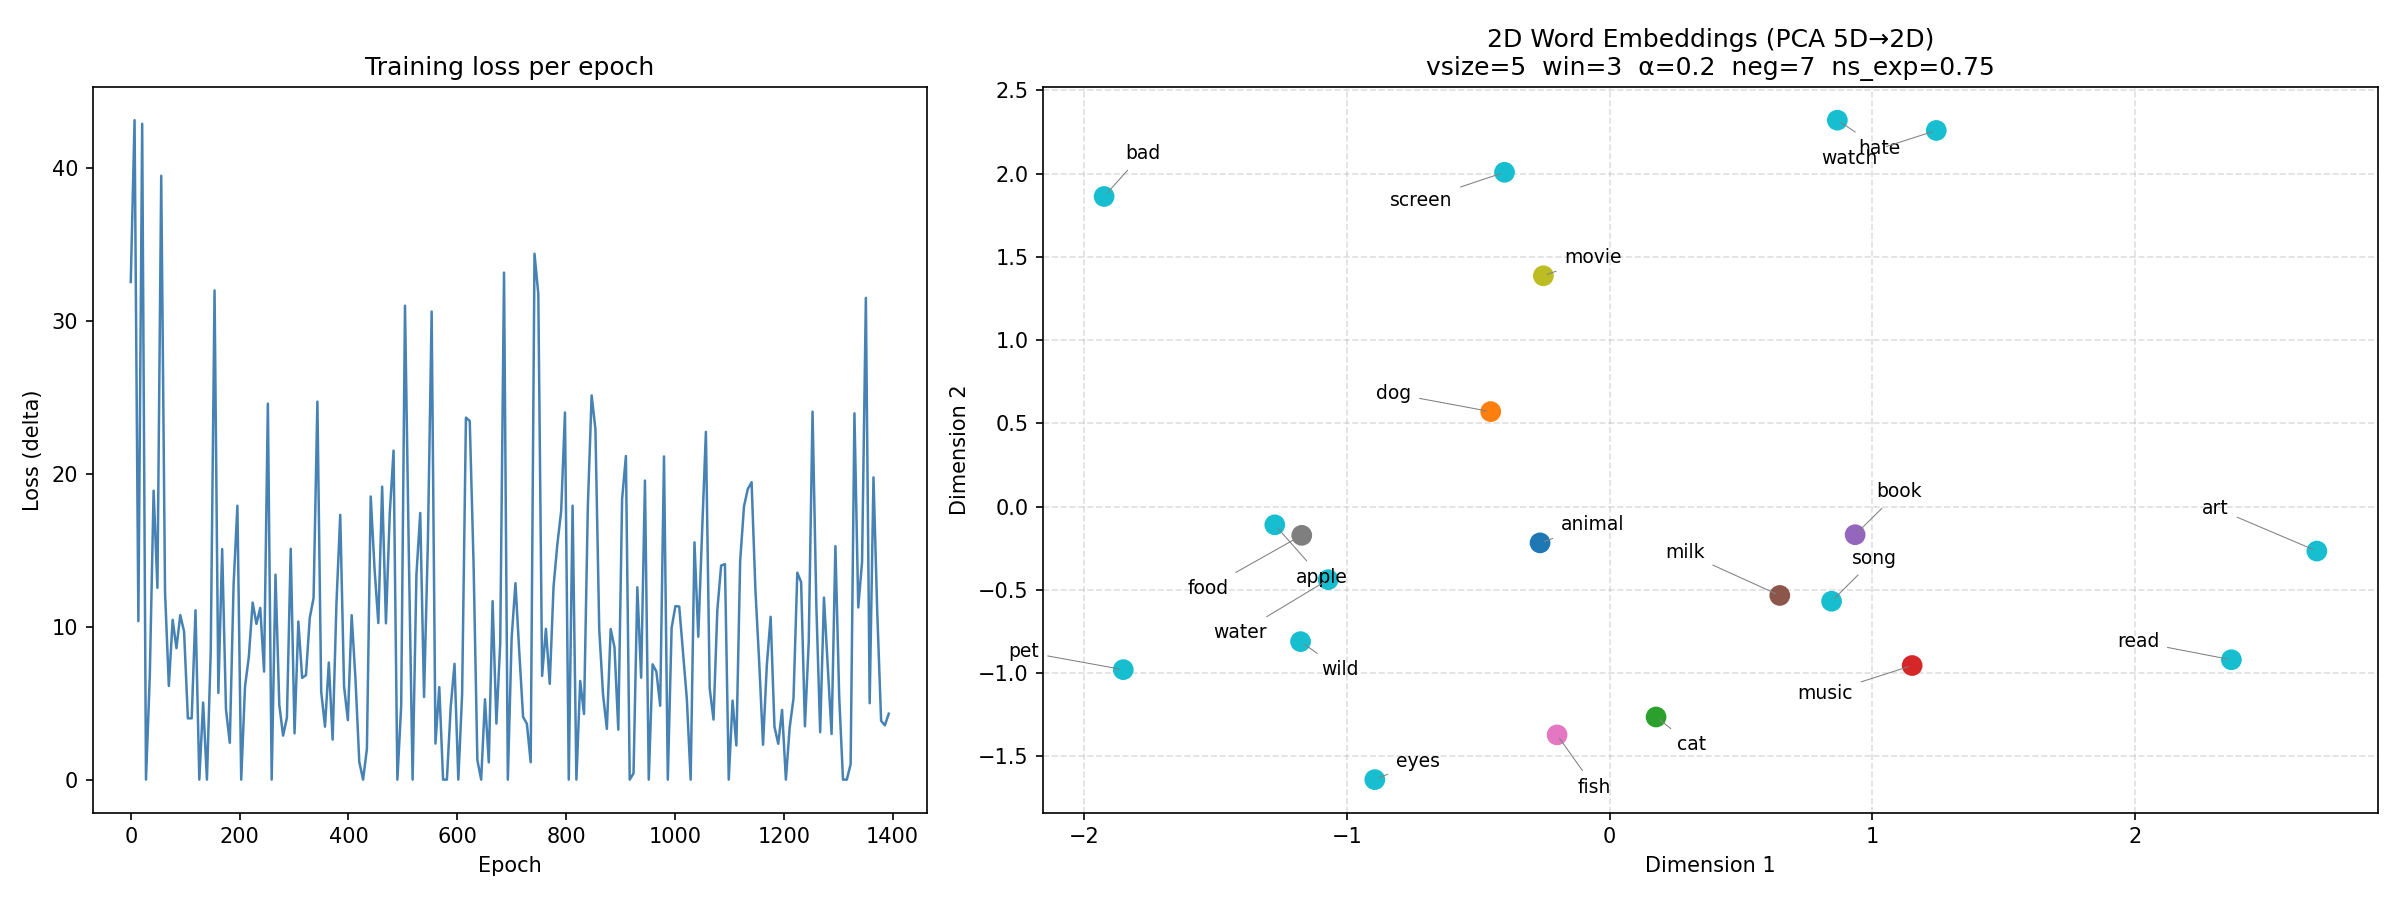
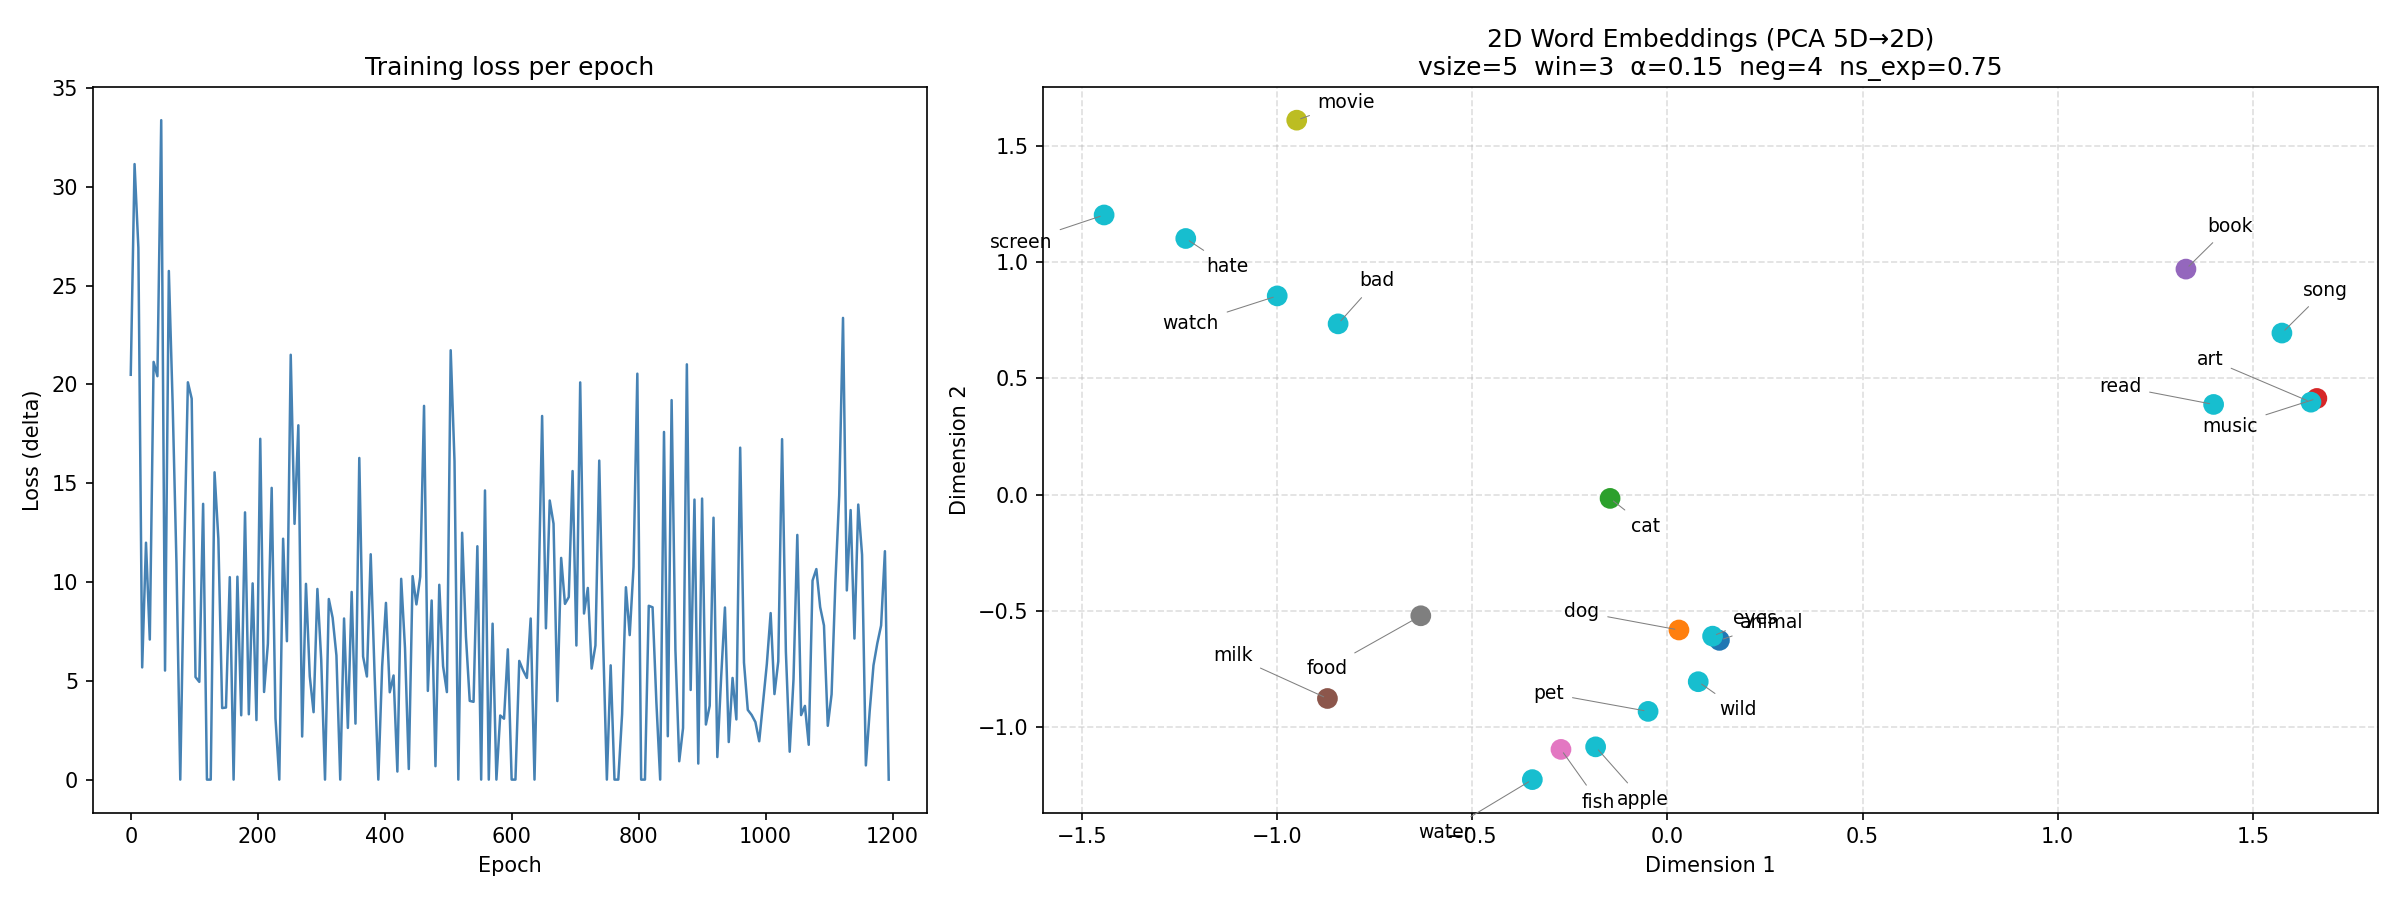
Implemented shilouette score in evaluate

diff --git a/Practice/word2Vec.py b/Practice/word2Vec.py
@@ -10,7 +10,7 @@ import matplotlib.pyplot as plt
 
 sentences = list(LineSentence("smallCorpora.txt"))
 
-FINE_TUNING = False
+FINE_TUNING = True
 FINAL_EPOCHS = 5000
 PRINT_EVERY = 200
 PATIENCE = 5
@@ -62,7 +62,7 @@ class LossCallback(CallbackAny2Vec):
                     f"No improvement for {PATIENCE} checks — stopping at epoch {self._epoch}"
                 )
 
-    def on_train_end(self, model):
+    def on_train_end(self):
         print(f"Training loss (last epoch): {self.train_losses[-1]:.4f}")
         if self.converged_at:
             print(f"Converged at epoch {self.converged_at} (early stopping).")
@@ -75,6 +75,8 @@ _clusters = {
     "movie": ["movie", "screen", "watch", "hate", "bad"],
 }
 _word_to_cluster = {w: c for c, words in _clusters.items() for w in words}
+_eval_vocab = list(_word_to_cluster.keys())
+_eval_labels = [_word_to_cluster[w] for w in _eval_vocab]
 
 
 def _project_2d(model):
@@ -86,10 +88,7 @@ def _project_2d(model):
 
 
 def evaluate(model):
-    vocab = [w for w in model.wv.index_to_key if w in _word_to_cluster]
-    X = model.wv[vocab]  # batch lookup → numpy array (n_words, vector_size)
-    labels = [_word_to_cluster[w] for w in vocab]
-    return float(silhouette_score(X, labels, metric="cosine"))
+    return float(silhouette_score(model.wv[_eval_vocab], _eval_labels, metric="cosine"))
 
 
 def most_similar(model, word, topn=3):
@@ -141,8 +140,8 @@ else:
     best_params = {
         "vector_size": 5,
         "window": 3,
-        "alpha": 0.2,
-        "negative": 7,
+        "alpha": 0.15,
+        "negative": 4,
     }
 
 loss_cb = LossCallback()